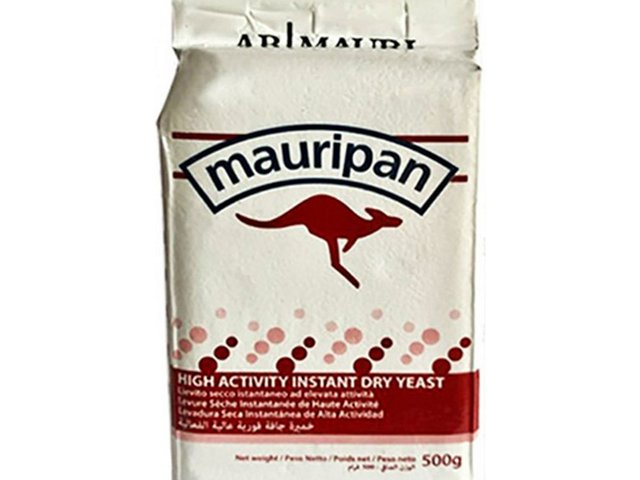
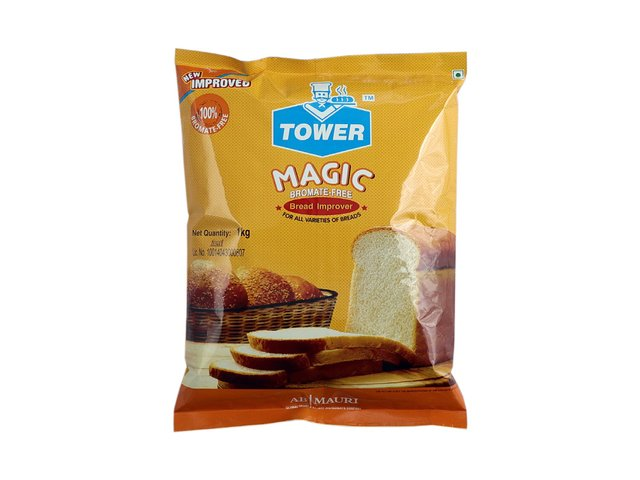
Add homepage poster slider; swap bakery & glaze images for real brand photos
- New full-width auto-rotating poster slider (6 slides, CSS-only
  cross-fade, no JS) right below the header, showing Chocolate &
  Cocoa, Bakery Ingredients, Whipping Cream & Cake, Dessert & Glazes,
  Sauces & Dressings and Cake Premix with the headline/CTA overlaid
  on top, similar to the reference site's rotating banner
- Bakery Yeast & Ingredients: replaced the generic Mauripan yeast
  pack with AB Mauri's actual Tower Magic Bromate-Free Bread Improver
  pack (abmauri.in/magic-bread-improver)
- Dessert & Beverage Ingredients: replaced the generic sundae photo
  with Frugel's own Glaze Gel product shot (Shahi Dry Fruit + Cashew
  Glaze tubs, from frugel.in)
- Shrunk the old text hero to just the supporting paragraph, since
  the headline/eyebrow/CTA now live in the slider overlay

Claude-Session: https://claude.ai/code/session_01EP7UuqdCCDHfvVSvwUuma8

diff --git a/css/style.css b/css/style.css
@@ -97,10 +97,99 @@ a { color: var(--brand); text-decoration: none; }
 .nav a:hover, .nav a.active { color: var(--brand); }
 .nav a:hover::after, .nav a.active::after { transform: scaleX(1); }
 
+/* Poster Slider */
+.poster-slider {
+  position: relative;
+  width: 100%;
+  height: 480px;
+  overflow: hidden;
+  background: var(--ink);
+}
+
+.poster-slider .slide {
+  position: absolute;
+  inset: 0;
+  opacity: 0;
+  animation: posterFade 30s infinite;
+}
+
+.poster-slider .slide:nth-child(1) { animation-delay: -0s; }
+.poster-slider .slide:nth-child(2) { animation-delay: -5s; }
+.poster-slider .slide:nth-child(3) { animation-delay: -10s; }
+.poster-slider .slide:nth-child(4) { animation-delay: -15s; }
+.poster-slider .slide:nth-child(5) { animation-delay: -20s; }
+.poster-slider .slide:nth-child(6) { animation-delay: -25s; }
+
+@keyframes posterFade {
+  0% { opacity: 0; }
+  2% { opacity: 1; }
+  14.6% { opacity: 1; }
+  16.6% { opacity: 0; }
+  100% { opacity: 0; }
+}
+
+.poster-slider .slide img {
+  width: 100%;
+  height: 100%;
+  object-fit: cover;
+  display: block;
+}
+
+.poster-slider .slide::after {
+  content: '';
+  position: absolute;
+  inset: 0;
+  background: linear-gradient(90deg, rgba(32,26,27,0.75) 0%, rgba(32,26,27,0.35) 45%, rgba(32,26,27,0.15) 75%);
+}
+
+.slide-caption {
+  position: absolute;
+  right: 28px;
+  bottom: 22px;
+  z-index: 2;
+  color: #fff;
+  font-size: 13px;
+  font-weight: 600;
+  background: rgba(0,0,0,0.35);
+  padding: 6px 14px;
+  border-radius: 999px;
+  backdrop-filter: blur(4px);
+}
+
+.poster-overlay {
+  position: absolute;
+  inset: 0;
+  z-index: 1;
+  display: flex;
+  flex-direction: column;
+  justify-content: center;
+  padding: 0 48px;
+  max-width: 620px;
+}
+
+.poster-overlay .hero-eyebrow {
+  align-self: flex-start;
+  background: rgba(255,255,255,0.12);
+  border-color: rgba(255,255,255,0.3);
+  color: #fff;
+  backdrop-filter: blur(4px);
+}
+
+.poster-overlay h1 {
+  font-size: 44px;
+  font-weight: 800;
+  color: #fff;
+  line-height: 1.15;
+  margin: 0 0 26px;
+  text-shadow: 0 2px 16px rgba(0,0,0,0.4);
+}
+
+.poster-overlay .btn { align-self: flex-start; }
+
 /* Hero */
 .hero {
   position: relative;
-  padding: 110px 0 100px;
+  padding: 40px 0;
   text-align: center;
   overflow: hidden;
   background:
@@ -447,8 +536,12 @@ a { color: var(--brand); text-decoration: none; }
 }
 
 @media (max-width: 720px) {
-  .hero { padding: 80px 0 70px; }
+  .hero { padding: 28px 0; }
   .hero h1 { font-size: 32px; }
+  .poster-slider { height: 380px; }
+  .poster-overlay { padding: 0 24px; }
+  .poster-overlay h1 { font-size: 28px; }
+  .slide-caption { right: 16px; bottom: 16px; font-size: 12px; }
   .features-grid { grid-template-columns: 1fr; }
   .contact-grid { grid-template-columns: 1fr; }
   .product-grid { grid-template-columns: 1fr; }

diff --git a/index.html b/index.html
@@ -23,12 +23,23 @@
     </div>
   </header>
 
-  <section class="hero">
-    <div class="container hero-inner">
+  <section class="poster-slider">
+    <div class="slide"><img src="assets/photos/chocolate.jpg" alt="Chocolate &amp; Cocoa"><span class="slide-caption">Chocolate &amp; Cocoa &middot; via Morde</span></div>
+    <div class="slide"><img src="assets/photos/bakery.jpg" alt="Bakery Ingredients"><span class="slide-caption">Bakery Ingredients &middot; via AB Mauri</span></div>
+    <div class="slide"><img src="assets/photos/cake.jpg" alt="Whipping Cream &amp; Cake"><span class="slide-caption">Whipping Cream &amp; Cake &middot; via Mavee's</span></div>
+    <div class="slide"><img src="assets/photos/syrup.jpg" alt="Dessert &amp; Glazes"><span class="slide-caption">Dessert &amp; Glazes &middot; via Frugel</span></div>
+    <div class="slide"><img src="assets/photos/sauce.jpg" alt="Sauces &amp; Dressings"><span class="slide-caption">Sauces &amp; Dressings &middot; via Veeba</span></div>
+    <div class="slide"><img src="assets/photos/premix.jpg" alt="Cake Premix"><span class="slide-caption">Cake Premix &middot; via Pristine</span></div>
+    <div class="poster-overlay">
       <span class="hero-eyebrow">Since 2017 &middot; Old Goa</span>
       <h1>The Ideal Ingredient Solution for Your Industry.</h1>
-      <p>JSK Enterprises — authorized distributors of Bakery, Confectionery and Hotel Industry raw materials, serving Beverage, QSR, Hospitality and Modern Trade businesses since 2017.</p>
       <a href="products.html" class="btn">Explore Our Products</a>
+    </div>
+  </section>
+
+  <section class="hero">
+    <div class="container hero-inner">
+      <p>JSK Enterprises — authorized distributors of Bakery, Confectionery and Hotel Industry raw materials, serving Beverage, QSR, Hospitality and Modern Trade businesses since 2017.</p>
     </div>
   </section>
 
